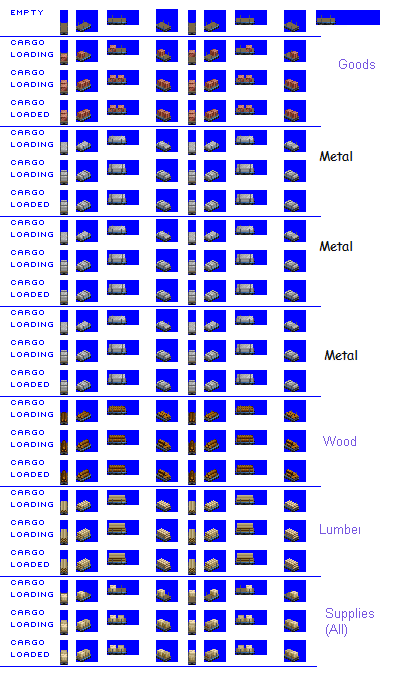
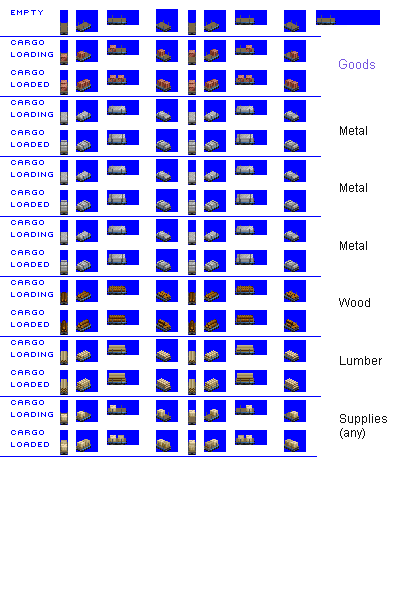
Fix: flat cars show load state in depot

diff --git a/src/vehicles/flat_cars.py b/src/vehicles/flat_cars.py
@@ -78,11 +78,11 @@ consist.add_model_variant(intro_date=0,
                        graphics_processor=graphics_processor_2)
 
 
-cargo_graphics_mappings = {'STEL': [1], 'WDPR': [2], 'WOOD': [3]}
+cargo_graphics_mappings = {}
 
 type_config = TypeConfig(base_id = 'flat_car_ng',
                 template = 'car_with_visible_cargo.pynml',
-                num_cargo_rows = 4,
+                num_cargo_rows = 1,
                 class_refit_groups = ['flatcar_freight'],
                 cargo_graphics_mappings = cargo_graphics_mappings,
                 label_refits_allowed = cargo_graphics_mappings.keys(),
